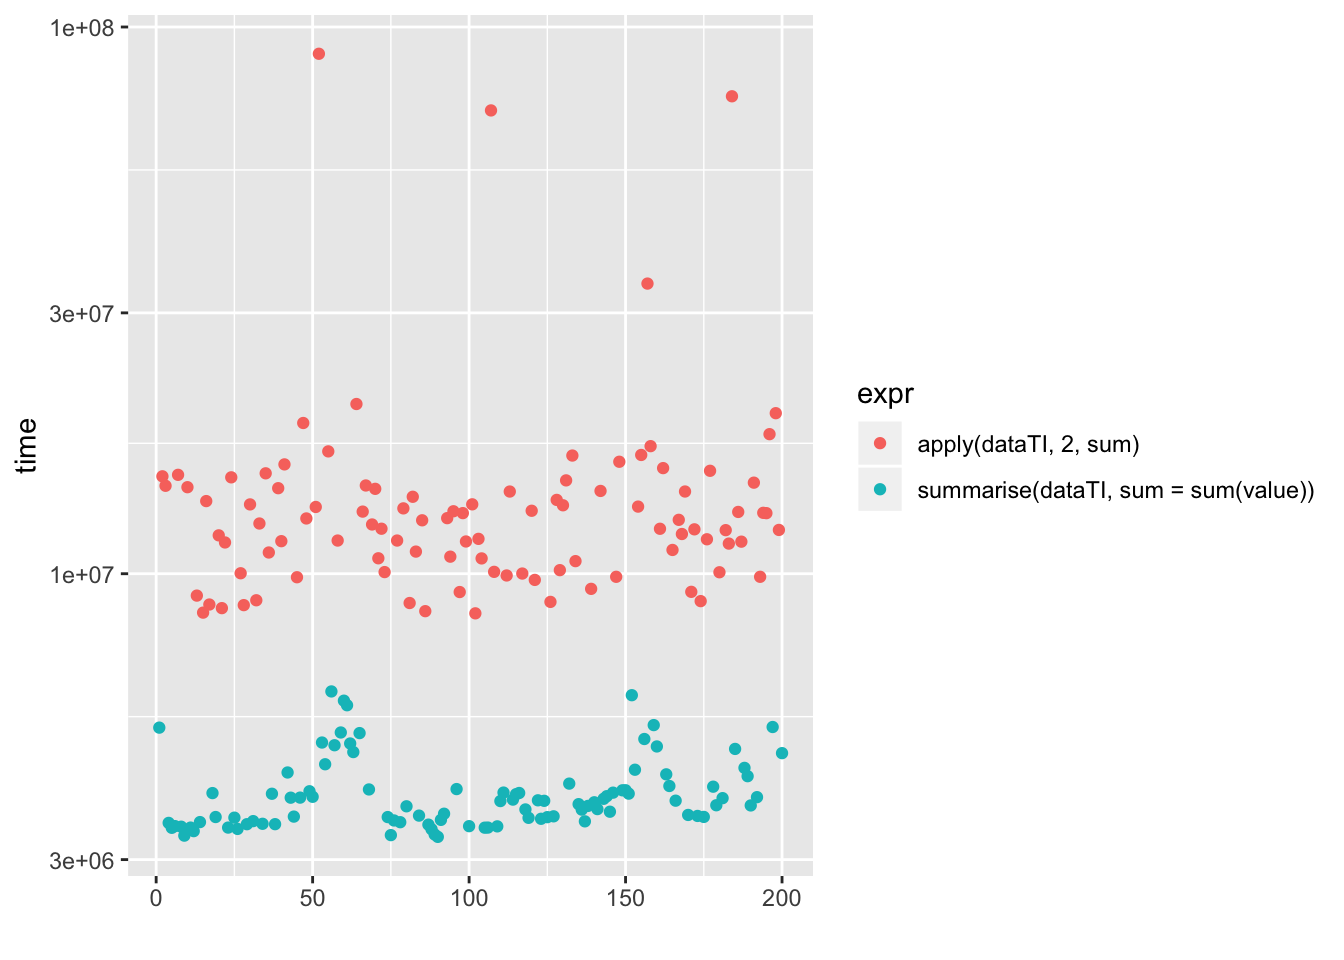
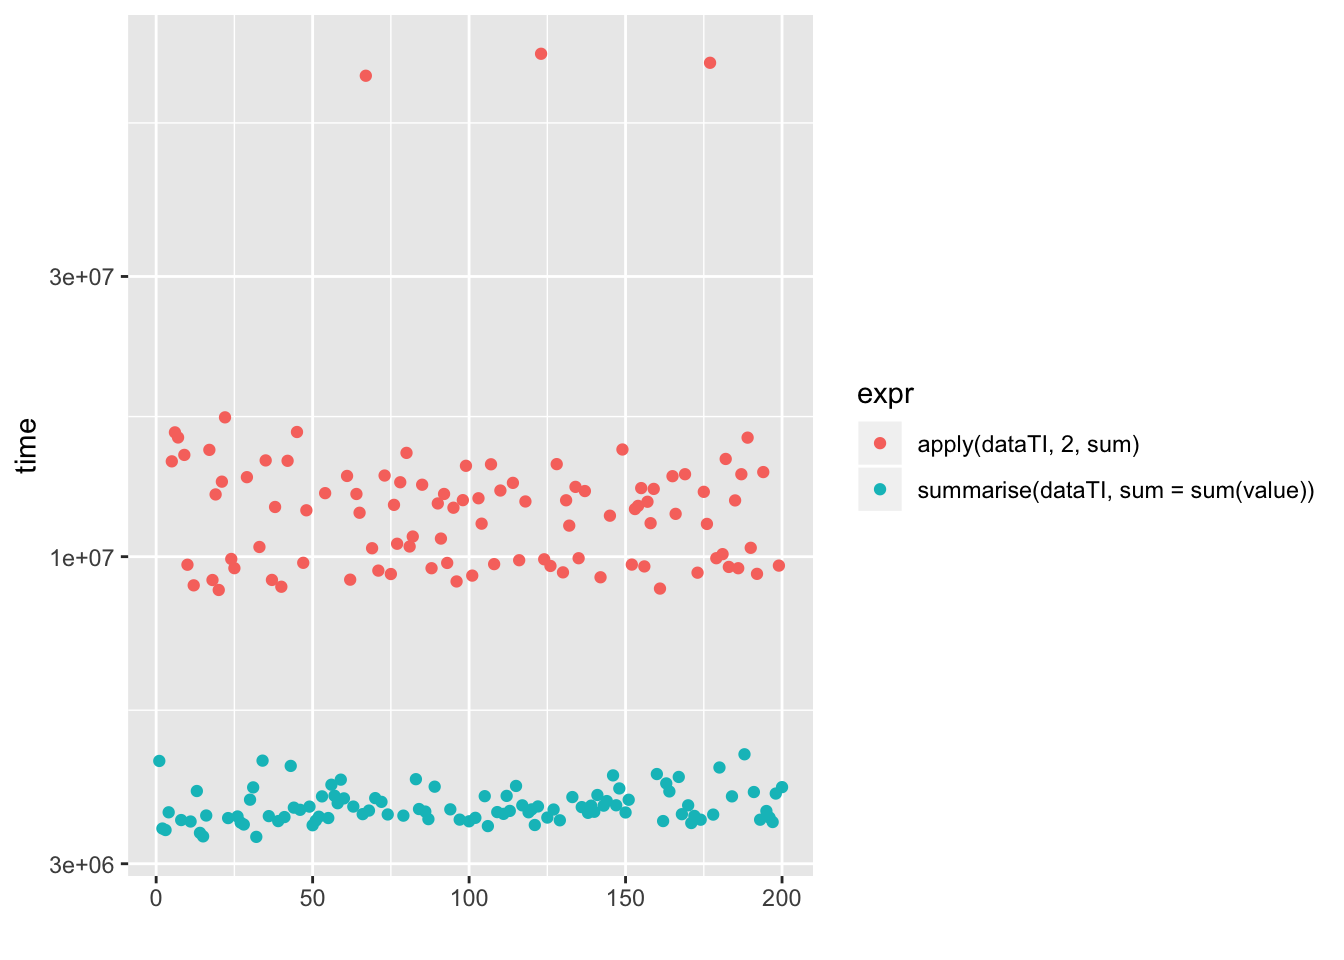
good

diff --git a/data-transformation-1.html b/data-transformation-1.html
@@ -24,7 +24,7 @@
 <meta name="author" content="HyunChang Byun" />
 
 
-<meta name="date" content="2019-10-25" />
+<meta name="date" content="2019-10-26" />
 
   <meta name="viewport" content="width=device-width, initial-scale=1" />
   <meta name="apple-mobile-web-app-capable" content="yes" />
@@ -188,7 +188,7 @@ code > span.in { color: #60a0b0; font-weight: bold; font-style: italic; } /* Inf
 <li class="chapter" data-level="7.4.4" data-path="data-transformation-1.html"><a href="data-transformation-1.html#arrange---"><i class="fa fa-check"></i><b>7.4.4</b> arrange 를 이용한 정렬</a></li>
 <li class="chapter" data-level="7.4.5" data-path="data-transformation-1.html"><a href="data-transformation-1.html#select----"><i class="fa fa-check"></i><b>7.4.5</b> select 를 이용한 데이터 선택</a></li>
 <li class="chapter" data-level="7.4.6" data-path="data-transformation-1.html"><a href="data-transformation-1.html#year--day----"><i class="fa fa-check"></i><b>7.4.6</b> year 와 day 사이에 있는 컬럼 제외</a></li>
-<li class="chapter" data-level="7.4.7" data-path="data-transformation-1.html"><a href="data-transformation-1.html#mutate----"><i class="fa fa-check"></i><b>7.4.7</b> mutate 로 새로운 컬럼 생성</a></li>
+<li class="chapter" data-level="7.4.7" data-path="data-transformation-1.html"><a href="data-transformation-1.html#mutate-----"><i class="fa fa-check"></i><b>7.4.7</b> mutate 로 데이터 생성 및 수정</a></li>
 <li class="chapter" data-level="7.4.8" data-path="data-transformation-1.html"><a href="data-transformation-1.html#summarize---"><i class="fa fa-check"></i><b>7.4.8</b> summarize 로 집계 하기</a></li>
 </ul></li>
 <li class="chapter" data-level="7.5" data-path="data-transformation-1.html"><a href="data-transformation-1.html#sql----"><i class="fa fa-check"></i><b>7.5</b> SQL 이용한 관계형 데이터 처리</a></li>
@@ -349,12 +349,12 @@ dataTI</code></pre></div>
 
 results</code></pre></div>
 <pre><code>## Unit: milliseconds
-##                                 expr      min        lq      mean
-##                apply(dataTI, 2, sum) 8.463402 10.348334 14.627301
-##  summarise(dataTI, sum = sum(value)) 3.301425  3.532755  3.984659
-##     median       uq       max neval
-##  12.439561 14.36714 89.338120   100
-##   3.828895  4.08434  6.091181   100</code></pre>
+##                                 expr      min       lq      mean    median
+##                apply(dataTI, 2, sum) 8.776221 9.734516 13.567885 12.133374
+##  summarise(dataTI, sum = sum(value)) 3.333330 3.590247  3.771001  3.701081
+##         uq       max neval
+##  13.683999 71.835673   100
+##   3.908597  4.607878   100</code></pre>
 <div class="sourceCode"><pre class="sourceCode r"><code class="sourceCode r"><span class="co"># 수행 분포를 확인</span>
 <span class="kw">autoplot</span>(results) <span class="co"># 실제 수행 모양</span></code></pre></div>
 <p><img src="test2_files/figure-html/unnamed-chunk-1-1.png" width="672" /></p>
@@ -1285,8 +1285,12 @@ fastest_flights &lt;-<span class="st"> </span><span class="kw">select</span>(
 ## #   tailnum &lt;chr&gt;, air_time &lt;dbl&gt;, distance &lt;dbl&gt;, hour &lt;dbl&gt;,
 ## #   minute &lt;dbl&gt;, time_hour &lt;dttm&gt;</code></pre>
 </div>
-<div id="mutate----" class="section level3">
-<h3><span class="header-section-number">7.4.7</span> mutate 로 새로운 컬럼 생성</h3>
+<div id="mutate-----" class="section level3">
+<h3><span class="header-section-number">7.4.7</span> mutate 로 데이터 생성 및 수정</h3>
+<ul>
+<li>mutate 함수를 이용해서 새로운 변수를 생성</li>
+<li>mutate_at 함수를 이용해서 #### mutate 로 새로운 컬럼 생성</li>
+</ul>
 <div class="sourceCode"><pre class="sourceCode r"><code class="sourceCode r">flights</code></pre></div>
 <pre><code>## # A tibble: 336,776 x 19
 ##     year month   day dep_time sched_dep_time dep_delay arr_time
@@ -1309,6 +1313,7 @@ fastest_flights &lt;-<span class="st"> </span><span class="kw">select</span>(
                      distance,
                      air_time
 )
+<span class="co"># gain 변수와 speed 변수를 생성</span>
 <span class="kw">mutate</span>(flights_sm,
        <span class="dt">gain =</span> dep_delay <span class="op">-</span><span class="st"> </span>arr_delay,
        <span class="dt">speed =</span> distance <span class="op">/</span><span class="st"> </span>air_time <span class="op">*</span><span class="st"> </span><span class="dv">60</span>
@@ -1326,6 +1331,21 @@ fastest_flights &lt;-<span class="st"> </span><span class="kw">select</span>(
 ##  8  2013     1     1        -3       -14      229       53    11  259.
 ##  9  2013     1     1        -3        -8      944      140     5  405.
 ## 10  2013     1     1        -2         8      733      138   -10  319.
+## # … with 336,766 more rows</code></pre>
+<div class="sourceCode"><pre class="sourceCode r"><code class="sourceCode r">flights_sm</code></pre></div>
+<pre><code>## # A tibble: 336,776 x 7
+##     year month   day dep_delay arr_delay distance air_time
+##    &lt;int&gt; &lt;int&gt; &lt;int&gt;     &lt;dbl&gt;     &lt;dbl&gt;    &lt;dbl&gt;    &lt;dbl&gt;
+##  1  2013     1     1         2        11     1400      227
+##  2  2013     1     1         4        20     1416      227
+##  3  2013     1     1         2        33     1089      160
+##  4  2013     1     1        -1       -18     1576      183
+##  5  2013     1     1        -6       -25      762      116
+##  6  2013     1     1        -4        12      719      150
+##  7  2013     1     1        -5        19     1065      158
+##  8  2013     1     1        -3       -14      229       53
+##  9  2013     1     1        -3        -8      944      140
+## 10  2013     1     1        -2         8      733      138
 ## # … with 336,766 more rows</code></pre>
 <div class="sourceCode"><pre class="sourceCode r"><code class="sourceCode r"><span class="kw">mutate</span>(flights_sm,
        <span class="dt">gain =</span> dep_delay <span class="op">-</span><span class="st"> </span>arr_delay,
@@ -1346,6 +1366,64 @@ fastest_flights &lt;-<span class="st"> </span><span class="kw">select</span>(
 ##  9  2013     1     1        -3        -8      944      140     5 2.33 
 ## 10  2013     1     1        -2         8      733      138   -10 2.3  
 ## # … with 336,766 more rows, and 1 more variable: gain_per_hour &lt;dbl&gt;</code></pre>
+<div id="mutate-----" class="section level4">
+<h4><span class="header-section-number">7.4.7.1</span> mutate 함수를 이용해서 기존 컬럼 업데이트</h4>
+<div class="sourceCode"><pre class="sourceCode r"><code class="sourceCode r">add10 &lt;-<span class="st"> </span><span class="cf">function</span>(x) {
+  y &lt;-<span class="st">  </span>x <span class="op">+</span><span class="st"> </span><span class="dv">10</span>
+  <span class="kw">return</span> (y)
+}
+<span class="kw">mutate</span>(flights,
+       <span class="dt">dep_delay =</span><span class="kw">add10</span>(dep_delay),
+       <span class="dt">arr_delay =</span> <span class="kw">add10</span>(dep_delay)
+)</code></pre></div>
+<pre><code>## # A tibble: 336,776 x 19
+##     year month   day dep_time sched_dep_time dep_delay arr_time
+##    &lt;int&gt; &lt;int&gt; &lt;int&gt;    &lt;int&gt;          &lt;int&gt;     &lt;dbl&gt;    &lt;int&gt;
+##  1  2013     1     1      517            515        12      830
+##  2  2013     1     1      533            529        14      850
+##  3  2013     1     1      542            540        12      923
+##  4  2013     1     1      544            545         9     1004
+##  5  2013     1     1      554            600         4      812
+##  6  2013     1     1      554            558         6      740
+##  7  2013     1     1      555            600         5      913
+##  8  2013     1     1      557            600         7      709
+##  9  2013     1     1      557            600         7      838
+## 10  2013     1     1      558            600         8      753
+## # … with 336,766 more rows, and 12 more variables: sched_arr_time &lt;int&gt;,
+## #   arr_delay &lt;dbl&gt;, carrier &lt;chr&gt;, flight &lt;int&gt;, tailnum &lt;chr&gt;,
+## #   origin &lt;chr&gt;, dest &lt;chr&gt;, air_time &lt;dbl&gt;, distance &lt;dbl&gt;, hour &lt;dbl&gt;,
+## #   minute &lt;dbl&gt;, time_hour &lt;dttm&gt;</code></pre>
+</div>
+<div id="mutate_at-----" class="section level4">
+<h4><span class="header-section-number">7.4.7.2</span> mutate_at 을 이용해서 특정 변수만 변경</h4>
+<ul>
+<li>mutate 는 비교적 작은 개수의 변수 변환에 사용 됩니다. 공통적인 변환을 많은 변수에 사용 할 경우 mutate_at 함수를 사용 하면 좀더 간단하게 사용할 수 있습니다.</li>
+</ul>
+<div class="sourceCode"><pre class="sourceCode r"><code class="sourceCode r"><span class="co"># 입력변수에 10을 더해서 반환 하는 함수</span>
+add10 &lt;-<span class="st"> </span><span class="cf">function</span>(x) {
+  y &lt;-<span class="st">  </span>x <span class="op">+</span><span class="st"> </span><span class="dv">10</span>
+  <span class="kw">return</span> (y)
+}
+<span class="co"># dep_dealy 및 arr_delay 컬럼만 10을 더합니다.</span>
+<span class="kw">mutate_at</span>(flights, <span class="kw">c</span>(<span class="st">&#39;dep_delay&#39;</span>,<span class="st">&#39;arr_delay&#39;</span>), add10)</code></pre></div>
+<pre><code>## # A tibble: 336,776 x 19
+##     year month   day dep_time sched_dep_time dep_delay arr_time
+##    &lt;int&gt; &lt;int&gt; &lt;int&gt;    &lt;int&gt;          &lt;int&gt;     &lt;dbl&gt;    &lt;int&gt;
+##  1  2013     1     1      517            515        12      830
+##  2  2013     1     1      533            529        14      850
+##  3  2013     1     1      542            540        12      923
+##  4  2013     1     1      544            545         9     1004
+##  5  2013     1     1      554            600         4      812
+##  6  2013     1     1      554            558         6      740
+##  7  2013     1     1      555            600         5      913
+##  8  2013     1     1      557            600         7      709
+##  9  2013     1     1      557            600         7      838
+## 10  2013     1     1      558            600         8      753
+## # … with 336,766 more rows, and 12 more variables: sched_arr_time &lt;int&gt;,
+## #   arr_delay &lt;dbl&gt;, carrier &lt;chr&gt;, flight &lt;int&gt;, tailnum &lt;chr&gt;,
+## #   origin &lt;chr&gt;, dest &lt;chr&gt;, air_time &lt;dbl&gt;, distance &lt;dbl&gt;, hour &lt;dbl&gt;,
+## #   minute &lt;dbl&gt;, time_hour &lt;dttm&gt;</code></pre>
+</div>
 </div>
 <div id="summarize---" class="section level3">
 <h3><span class="header-section-number">7.4.8</span> summarize 로 집계 하기</h3>
@@ -1374,11 +1452,29 @@ fastest_flights &lt;-<span class="st"> </span><span class="kw">select</span>(
 <ul>
 <li>도착지 별로 항공편을 그룹화</li>
 <li>비행거리, 평균지연시간, 비행편개수 에 대한 요약</li>
-<li></li>
 </ul>
 <div class="sourceCode"><pre class="sourceCode r"><code class="sourceCode r">by_dest &lt;-<span class="st"> </span><span class="kw">group_by</span>(flights, dest)
-delay &lt;-<span class="st"> </span><span class="kw">summarise</span>(by_dest,
-  <span class="dt">count =</span> <span class="kw">n</span>(),
+by_dest</code></pre></div>
+<pre><code>## # A tibble: 336,776 x 19
+## # Groups:   dest [105]
+##     year month   day dep_time sched_dep_time dep_delay arr_time
+##    &lt;int&gt; &lt;int&gt; &lt;int&gt;    &lt;int&gt;          &lt;int&gt;     &lt;dbl&gt;    &lt;int&gt;
+##  1  2013     1     1      517            515         2      830
+##  2  2013     1     1      533            529         4      850
+##  3  2013     1     1      542            540         2      923
+##  4  2013     1     1      544            545        -1     1004
+##  5  2013     1     1      554            600        -6      812
+##  6  2013     1     1      554            558        -4      740
+##  7  2013     1     1      555            600        -5      913
+##  8  2013     1     1      557            600        -3      709
+##  9  2013     1     1      557            600        -3      838
+## 10  2013     1     1      558            600        -2      753
+## # … with 336,766 more rows, and 12 more variables: sched_arr_time &lt;int&gt;,
+## #   arr_delay &lt;dbl&gt;, carrier &lt;chr&gt;, flight &lt;int&gt;, tailnum &lt;chr&gt;,
+## #   origin &lt;chr&gt;, dest &lt;chr&gt;, air_time &lt;dbl&gt;, distance &lt;dbl&gt;, hour &lt;dbl&gt;,
+## #   minute &lt;dbl&gt;, time_hour &lt;dttm&gt;</code></pre>
+<div class="sourceCode"><pre class="sourceCode r"><code class="sourceCode r">delay &lt;-<span class="st"> </span><span class="kw">summarise</span>(by_dest,
+  <span class="dt">count =</span> <span class="kw">n</span>(),  <span class="co">#그룹에 속한 관측치의 개수</span>
   <span class="dt">dist =</span> <span class="kw">mean</span>(distance, <span class="dt">na.rm =</span> <span class="ot">TRUE</span>),
   <span class="dt">delay =</span> <span class="kw">mean</span>(arr_delay, <span class="dt">na.rm =</span> <span class="ot">TRUE</span>)
 )
@@ -1402,7 +1498,7 @@ delay</code></pre></div>
 <span class="st">  </span><span class="kw">geom_point</span>(<span class="kw">aes</span>(<span class="dt">size =</span> count), <span class="dt">alpha =</span> <span class="dv">1</span><span class="op">/</span><span class="dv">3</span>) <span class="op">+</span>
 <span class="st">  </span><span class="kw">geom_smooth</span>(<span class="dt">se =</span> <span class="ot">FALSE</span>)</code></pre></div>
 <pre><code>## `geom_smooth()` using method = &#39;loess&#39; and formula &#39;y ~ x&#39;</code></pre>
-<p><img src="test2_files/figure-html/unnamed-chunk-42-1.png" width="672" /></p>
+<p><img src="test2_files/figure-html/unnamed-chunk-44-1.png" width="672" /></p>
 <div class="sourceCode"><pre class="sourceCode r"><code class="sourceCode r">delays &lt;-<span class="st"> </span>flights <span class="op">%&gt;%</span><span class="st"> </span>
 <span class="st">  </span><span class="kw">group_by</span>(dest) <span class="op">%&gt;%</span><span class="st"> </span>
 <span class="st">  </span><span class="kw">summarise</span>(
